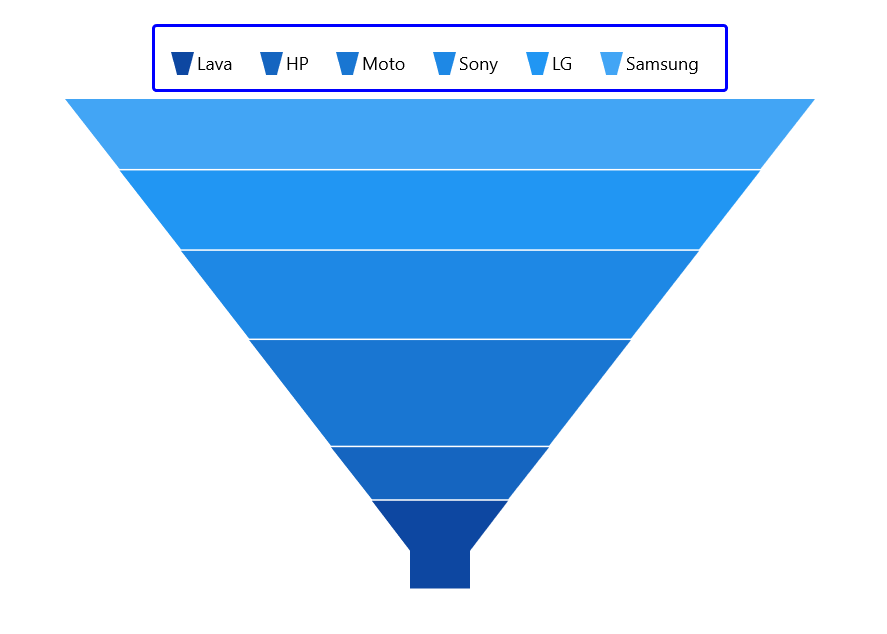
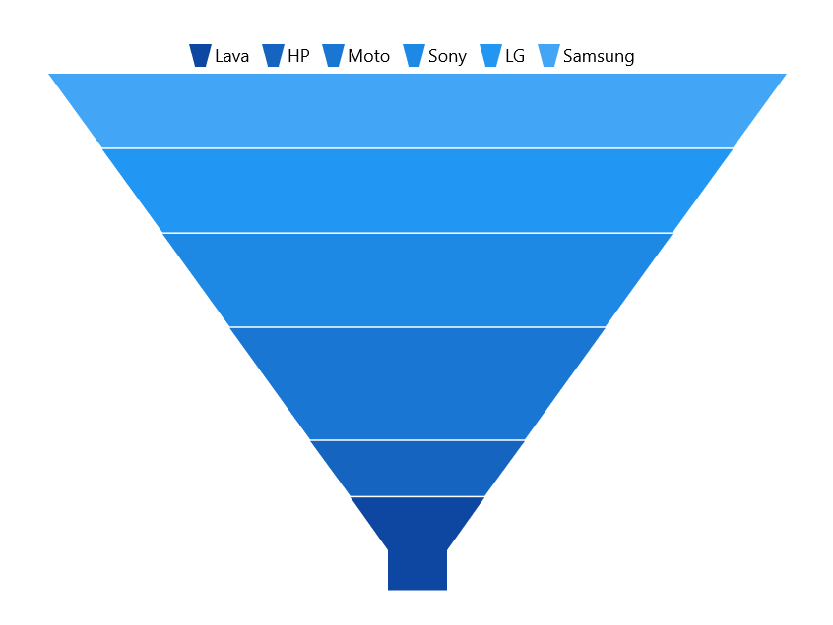
Suggestion to be Changed.

diff --git a/winui/Funnel-Chart/Legend.md b/winui/Funnel-Chart/Legend.md
@@ -116,6 +116,33 @@ chart.Legend = new ChartLegend()
 
 ![Legend icon in WinUI Funnel Chart](Legend_images/WinUI_Funnel_chart_Legend_Customize.png)
 
+## Legend Icon spacing
+
+Funnel chart provides support to ItemMargin for each legend item spacing.
+
+{% tabs %}
+
+{% highlight xaml %}
+
+<chart:SfFunnelChart.Legend>
+    <chart:ChartLegend ItemMargin="10"/>
+</chart:SfFunnelChart.Legend>
+
+{% endhighlight %}
+
+{% highlight c# %}
+
+chart.Legend = new ChartLegend()
+{
+    ItemMargin = new Thickness(10)
+};
+
+{% endhighlight %}
+
+{% endtabs %}
+
+![Legend Icon spacing support for legend in WinUI Funnel Chart](Legend_images/WinUI_Funnel_chart_Legend_Icon_spacing.png)
+
 ## Checkbox for legend
 
 Funnel chart provides support to enable the checkbox for each legend item to visbile or collapse the associated data points. By default, the value of [CheckBoxVisibility]() property is `Collapsed`. 
@@ -195,6 +222,8 @@ chart.Legend = new ChartLegend()
 
 {% endtabs %}
 
+![Position support for legend in WinUI Funnel Chart](Legend_images/WinUI_Funnel_chart_Legend_Position.png)
+
 **Docking the legend position**
 
 Legends can be docked left, right, and top or bottom around the chart area using [DockPosition]() property. By default, the chart legend is docked at the top of the chart as mentioned earlier.
@@ -215,7 +244,8 @@ To display the legend at the right, you can set the [DockPosition]() as [Right](
 
 chart.Legend = new ChartLegend()
 {
-   DockPosition = ChartDock.Right
+   DockPosition = ChartDock.Right,
+   ItemMargin = new Thickness(10),
 };
 
 {% endhighlight %}
@@ -243,6 +273,7 @@ To position the legend at any arbitrary location inside chart, need to set [Dock
 chart.Legend = new ChartLegend()
 {
     DockPosition = ChartDock.Floating,
+    Orientation = ChartOrientation.Vertical,
     OffsetX = 370,
     OffsetY = 300
 };
@@ -279,6 +310,44 @@ chart.Legend = new ChartLegend()
 {% endtabs %}
 
 ![Legend orientation support in WinUI Funnel Chart](Legend_images/WinUI_Funnel_chart_Legend_Orientation.png)
+
+## Legend background customization 
+
+The deafult legend background appearance of the label can be customized using the below properties.
+
+[BorderThickness]() - used to change the stroke width of the legend.
+[BorderBrush]() - used to change the stroke color of the legend.
+[Background]() - used to change the background color of legend.
+[Opacity]() - used to control the transparency of the legend icon shape.
+[CornerRadius]() - used to change the corner radius of the legend.
+
+{% tabs %}
+
+{% highlight xaml %}
+
+<chart:SfFunnelChart.Legend>
+    <chart:ChartLegend Background="Gray" BorderBrush="Black" 
+                       BorderThickness="1" CornerRadius="5" 
+                       Opacity="0.9" >
+    </chart:ChartLegend>
+</chart:SfFunnelChart.Legend>
+
+{% endhighlight %}
+
+{% highlight c# %}
+
+chart.Legend = new ChartLegend()
+{
+    Background = new SolidColorBrush(Colors.Gray),
+    BorderBrush = new SolidColorBrush(Colors.Black),
+    BorderThickness = new Thickness(1),
+    Opacity = 0.9,
+    CornerRadius = CornerRadiusHelper.FromUniformRadius(5)
+};
+
+{% endtabs %}
+
+![Legend background support for legend in WinUI Funnel Chart](Legend_images/WinUI_Funnel_chart_Legend_background_customizing.png)
 
 ## Legend template customization
 
